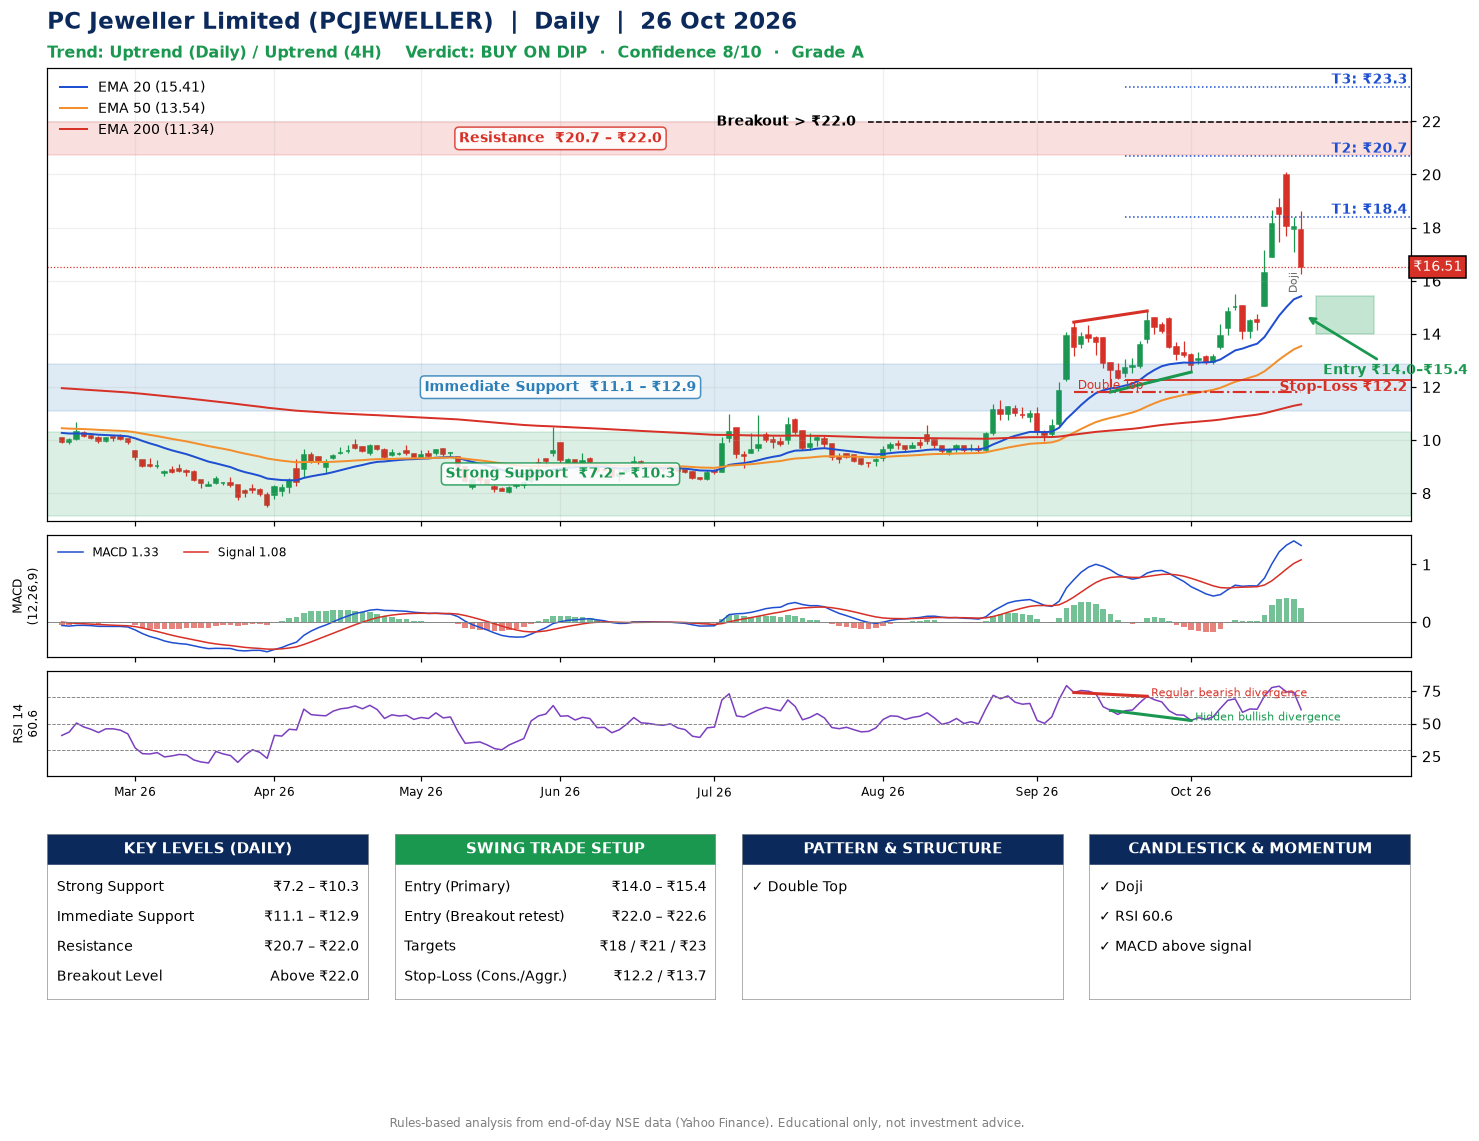
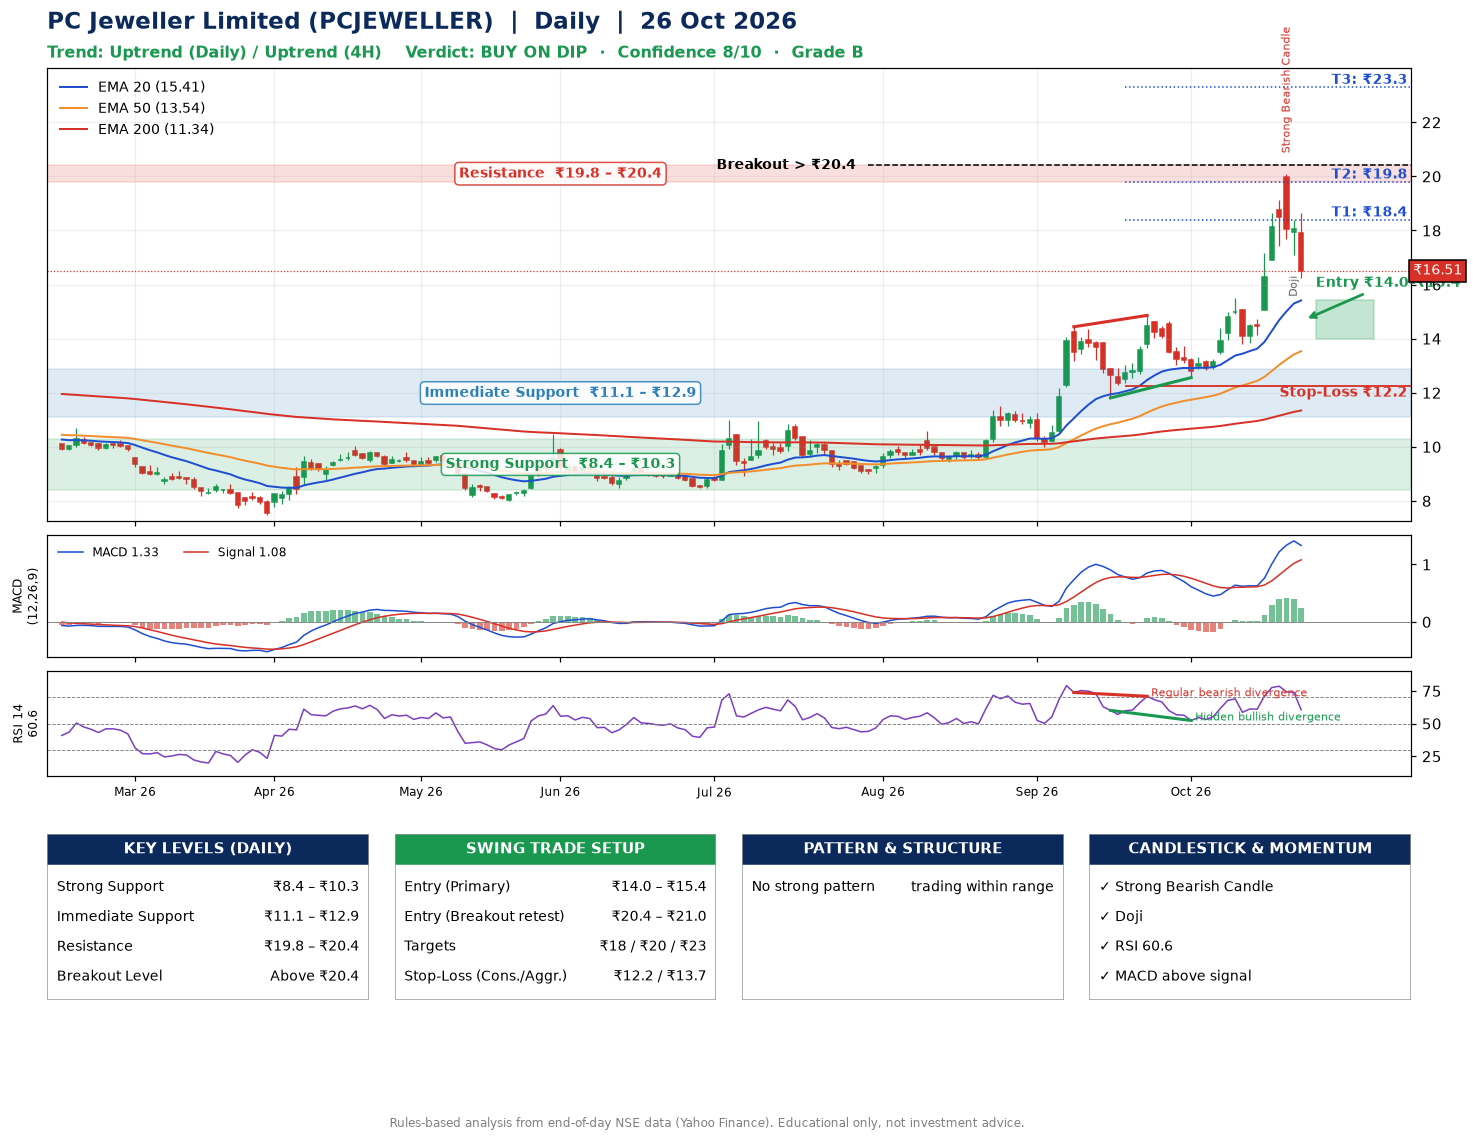
Chart: symbol=PCJEWELLER.NS

diff --git a/PCJEWELLER/2026-10-26.md b/PCJEWELLER/2026-10-26.md
@@ -16,29 +16,30 @@ _Data up to 26 Oct 2026 · Close ₹16.51_
 - RSI(14) 52.0; Regular bearish divergence
 
 **📍 Pattern Detection (Both Timeframes)**
-- Daily: **Double Top** – tops near ₹14.4/₹14.9, neckline ₹11.8, forming
+- No strong pattern detected. Trading within range.
 
 **📍 Candlestick Patterns (last 3 daily candles)**
+- **Strong Bearish Candle** – 22 Oct: wide-range red candle, sellers in control
 - **Doji** – 23 Oct: indecision; wait for the next candle to confirm direction
 
 **📍 Price Action Key Levels (Daily Structure)**
 
 | Zone | Price Level (₹) | Context |
 |------|-----------------|---------|
-| Strong Support | ₹7.2 – ₹10.3 | Cluster of earlier swing lows (demand) |
+| Strong Support | ₹8.4 – ₹10.3 | Cluster of earlier swing lows (demand) |
 | Immediate Support | ₹11.1 – ₹12.9 | Nearest swing-low / wick area |
-| Resistance | ₹20.7 – ₹22.0 | Nearest swing-high supply |
-| Breakout Level | Above ₹22.0 | Swing continuation trigger (52-week high ₹20.1) |
+| Resistance | ₹19.8 – ₹20.4 | Nearest swing-high supply |
+| Breakout Level | Above ₹20.4 | Swing continuation trigger (52-week high ₹20.1) |
 
 **📍 Swing Trade Setup**
 
 🟢 **Entry Zone**
 - Primary: ₹14.0 – ₹15.4 (daily support / EMA20 area; enter on a bullish 4H candle)
-- Alternate: ₹22.0 – ₹22.6 (breakout retest)
+- Alternate: ₹20.4 – ₹21.0 (breakout retest)
 
 🎯 **Profit Targets**
 - T1: ₹18.4
-- T2: ₹20.7
+- T2: ₹19.8
 - T3: ₹23.3
 
 🛑 **Stop-Loss**
@@ -47,10 +48,10 @@ _Data up to 26 Oct 2026 · Close ₹16.51_
 - Risk per share ≈ ₹2.5; reward:risk to T1 ≈ 1.5
 
 **📌 Strategy Notes**
-- Higher timeframe: daily trend is uptrend; only take longs while price holds above ₹7.2.
+- Higher timeframe: daily trend is uptrend; only take longs while price holds above ₹8.4.
 - Entry timing: wait for a bullish 4H candle (engulfing/hammer) inside ₹14.0 – ₹15.4 rather than buying mid-range.
 - EMA stacking: bullish stack (EMA20 > EMA50 > EMA200); price above EMA20, EMA50, EMA200.
-- Breakout rule: a daily close above ₹22.0 with volume above its 20-day average (≈485,206,229) opens T2/T3.
+- Breakout rule: a daily close above ₹20.4 with volume above its 20-day average (≈485,206,229) opens T2/T3.
 - Momentum: RSI 61 – room to run; Hidden bullish divergence; Regular bearish divergence.
 - Exit discipline: move the stop to entry once T1 is hit; book partial profits at each target.
 
@@ -67,11 +68,11 @@ Recommendation: **🟡 BUY ON DIP**
 
 Confidence: **8/10**
 
-Trade Quality: **A**
+Trade Quality: **B**
 
 Reason:
+• Sharp pullback: 18% below the recent ₹20.1 high
 • Daily uptrend (higher highs and higher lows)
-• EMAs stacked bullishly
 
 Next Action:
 • Wait for a pullback to ₹14.0–₹15.4
